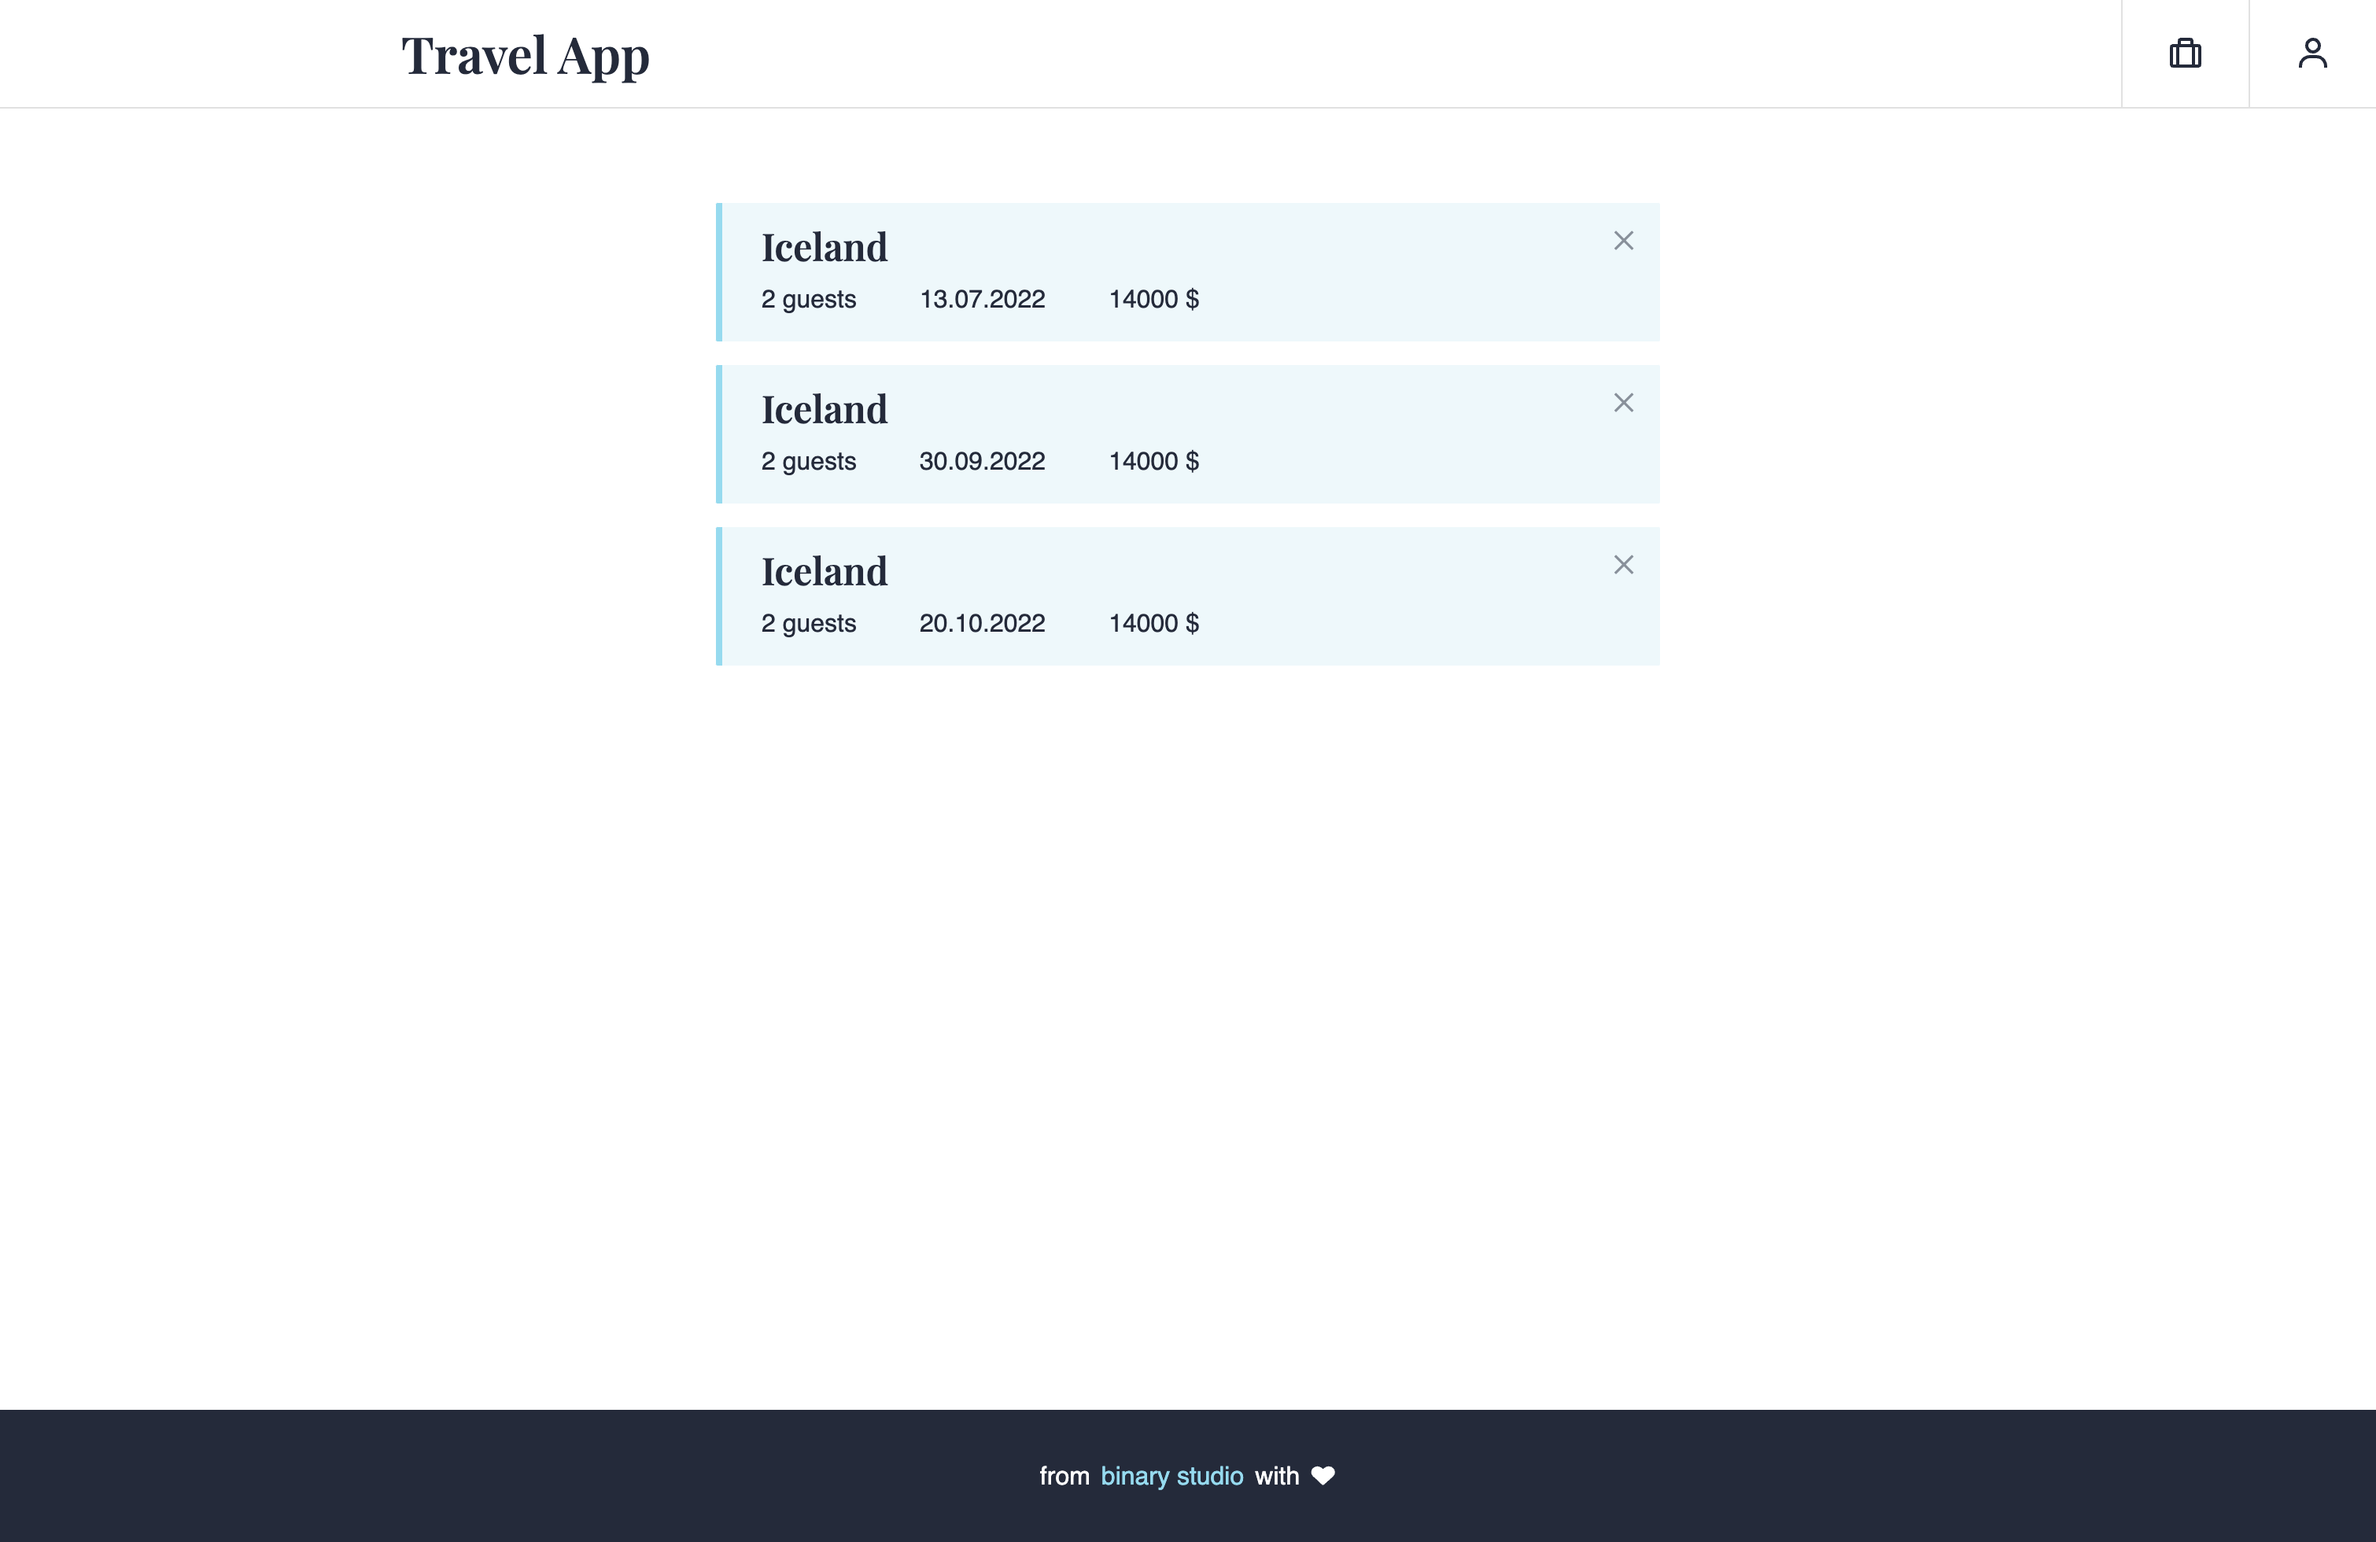
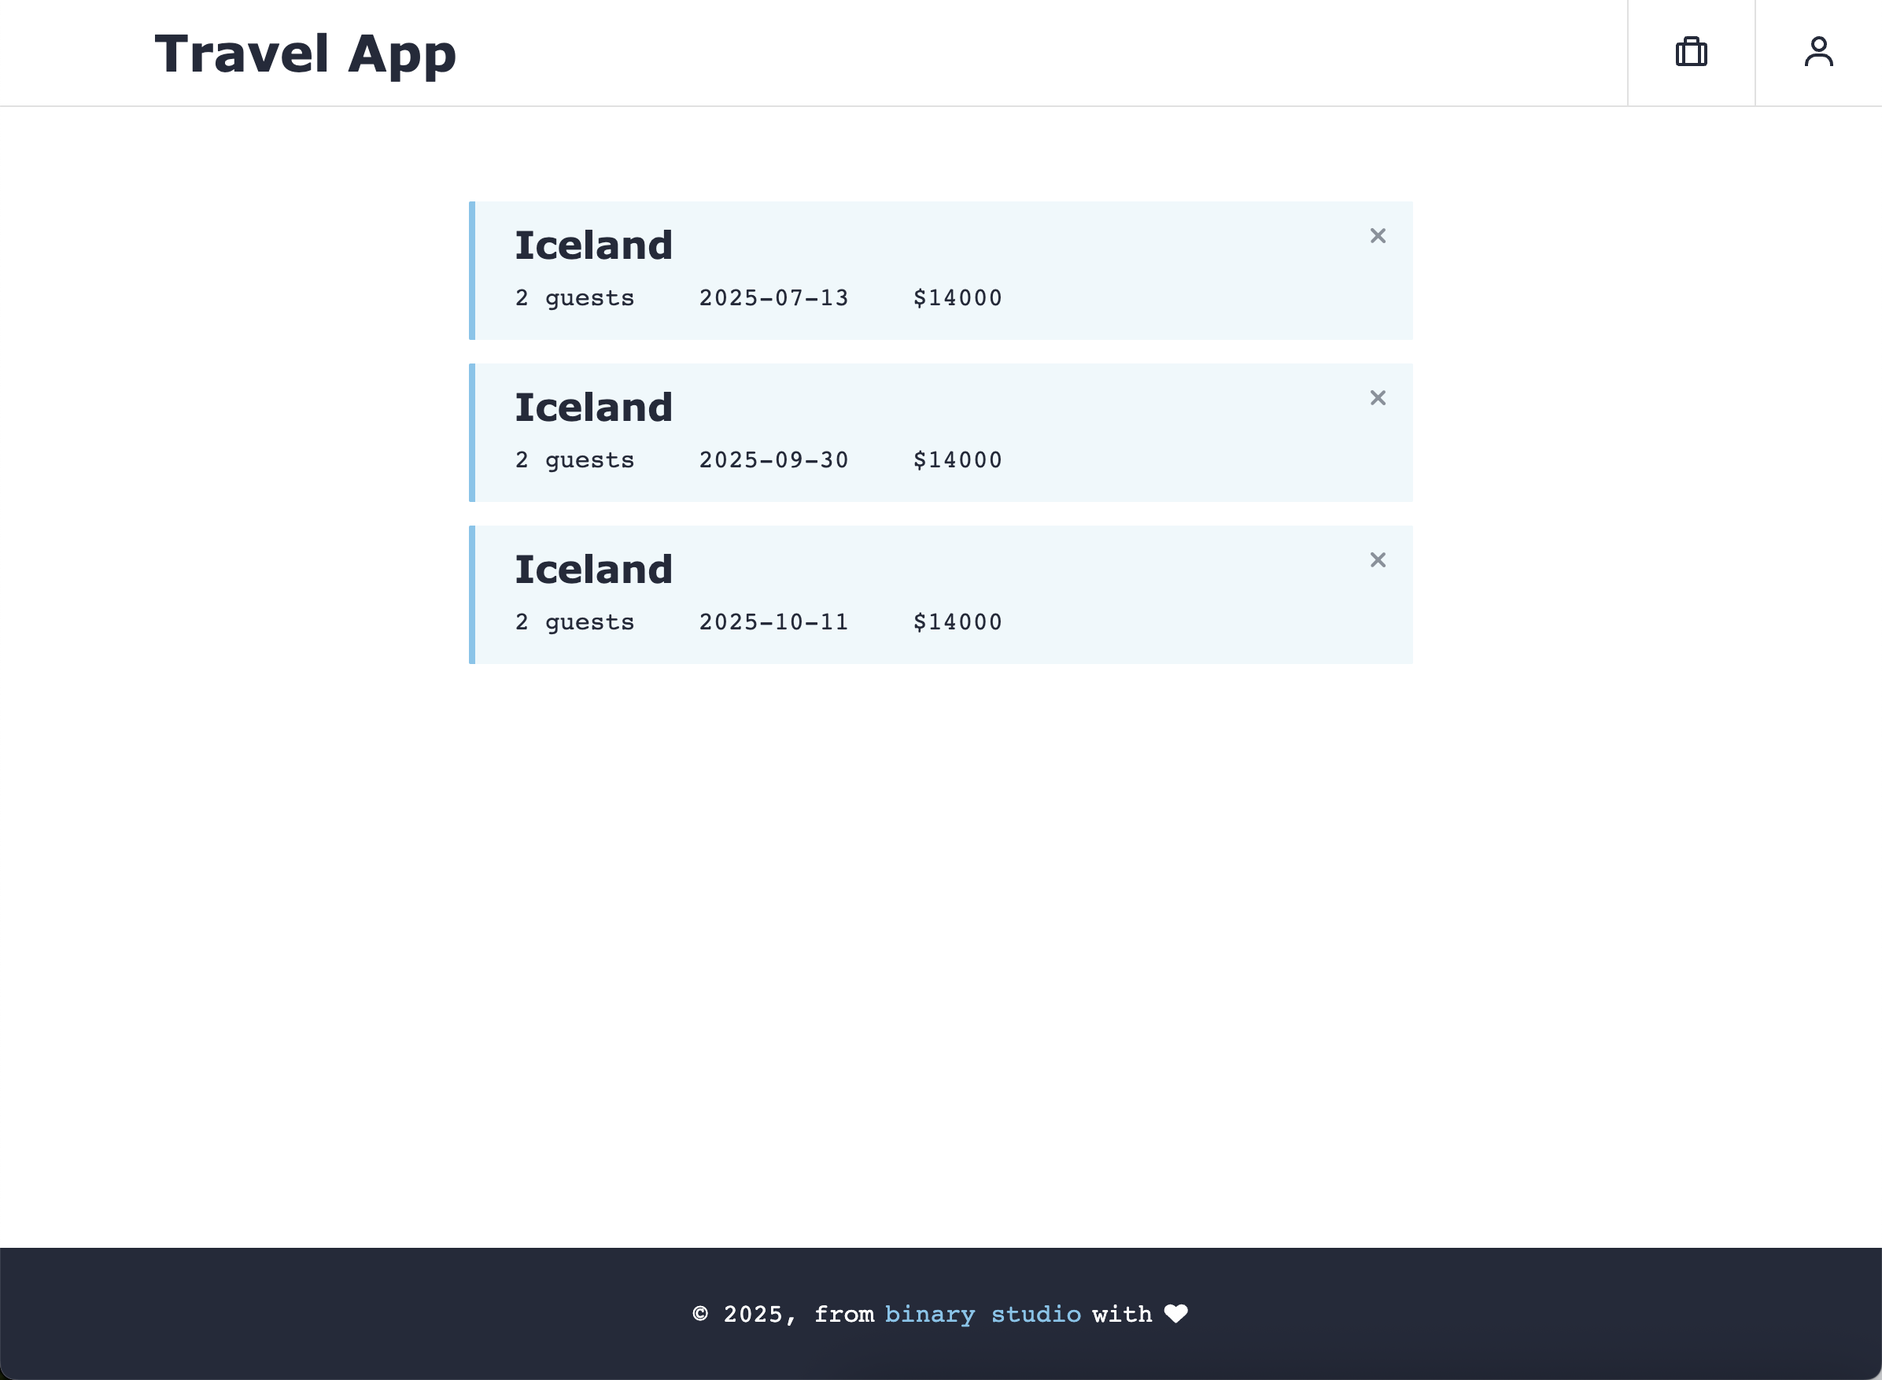
BSA-270: * update starter

diff --git a/bookings.html b/bookings.html
@@ -71,7 +71,7 @@
             2 guests
           </span>
           <span data-test-id="booking-date" class="booking__date">
-            2024-07-13
+            2025-07-13
           </span>
           <span data-test-id="booking-total" class="booking__total">
             $14000
@@ -91,7 +91,7 @@
             2 guests
           </span>
           <span data-test-id="booking-date" class="booking__date">
-            2024-09-30
+            2025-09-30
           </span>
           <span data-test-id="booking-total" class="booking__total">
             $14000
@@ -111,7 +111,7 @@
             2 guests
           </span>
           <span data-test-id="booking-date" class="booking__date">
-            2024-10-11
+            2025-10-11
           </span>
           <span data-test-id="booking-total" class="booking__total">
             $14000
@@ -129,7 +129,7 @@
     </main>
     <footer class="footer">
       <span class="footer__text">
-        © 2024, from
+        © 2025, from
         <a class="footer__link" href="https://binary-studio.com">
           binary studio
         </a>

diff --git a/assets/css/style.css b/assets/css/style.css
@@ -84,7 +84,7 @@ body {
   overflow-x: hidden;
   color: var(--color-blue-400);
   font-size: var(--font-size-200);
-  font-family: Assistant, sans-serif;
+  font-family: Courier, monospace;
   font-style: normal;
   line-height: 1.5;
   text-rendering: optimizespeed;
@@ -230,7 +230,7 @@ select {
   margin: 0 0 5px;
   font-weight: 600;
   font-size: var(--font-size-400);
-  font-family: 'Playfair Display', serif;
+  font-family: Verdana, sans-serif;
 }
 
 .trip-info__content {
@@ -285,7 +285,7 @@ select {
   color: var(--color-blue-400);
   font-weight: 600;
   font-size: var(--font-size-500);
-  font-family: 'Playfair Display', serif;
+  font-family: Verdana, sans-serif;
   text-decoration: none;
 }
 
@@ -612,7 +612,7 @@ select {
   margin: 0;
   font-weight: 600;
   font-size: var(--font-size-400);
-  font-family: 'Playfair Display', serif;
+  font-family: Verdana, sans-serif;
   line-height: 1;
 }
 

diff --git a/index.html b/index.html
@@ -290,7 +290,7 @@
     </main>
     <footer class="footer">
       <span class="footer__text">
-        © 2024, from
+        © 2025, from
         <a class="footer__link" href="https://binary-studio.com">
           binary studio
         </a>

diff --git a/trip.html b/trip.html
@@ -120,7 +120,7 @@
     </main>
     <footer class="footer">
       <span class="footer__text">
-        © 2024, from
+        © 2025, from
         <a class="footer__link" href="https://binary-studio.com">
           binary studio
         </a>

diff --git a/sign-in.html b/sign-in.html
@@ -54,7 +54,7 @@
     </main>
     <footer class="footer">
       <span class="footer__text">
-        © 2024, from
+        © 2025, from
         <a class="footer__link" href="https://binary-studio.com">
           binary studio
         </a>

diff --git a/sign-up.html b/sign-up.html
@@ -62,7 +62,7 @@
     </main>
     <footer class="footer">
       <span class="footer__text">
-        © 2024, from
+        © 2025, from
         <a class="footer__link" href="https://binary-studio.com">
           binary studio
         </a>

diff --git a/readme.md b/readme.md
@@ -1,5 +1,5 @@
 # Travel App Markup
 
-## Generail Info
+## General Info
 
 This repository contains markup for Travel App.
